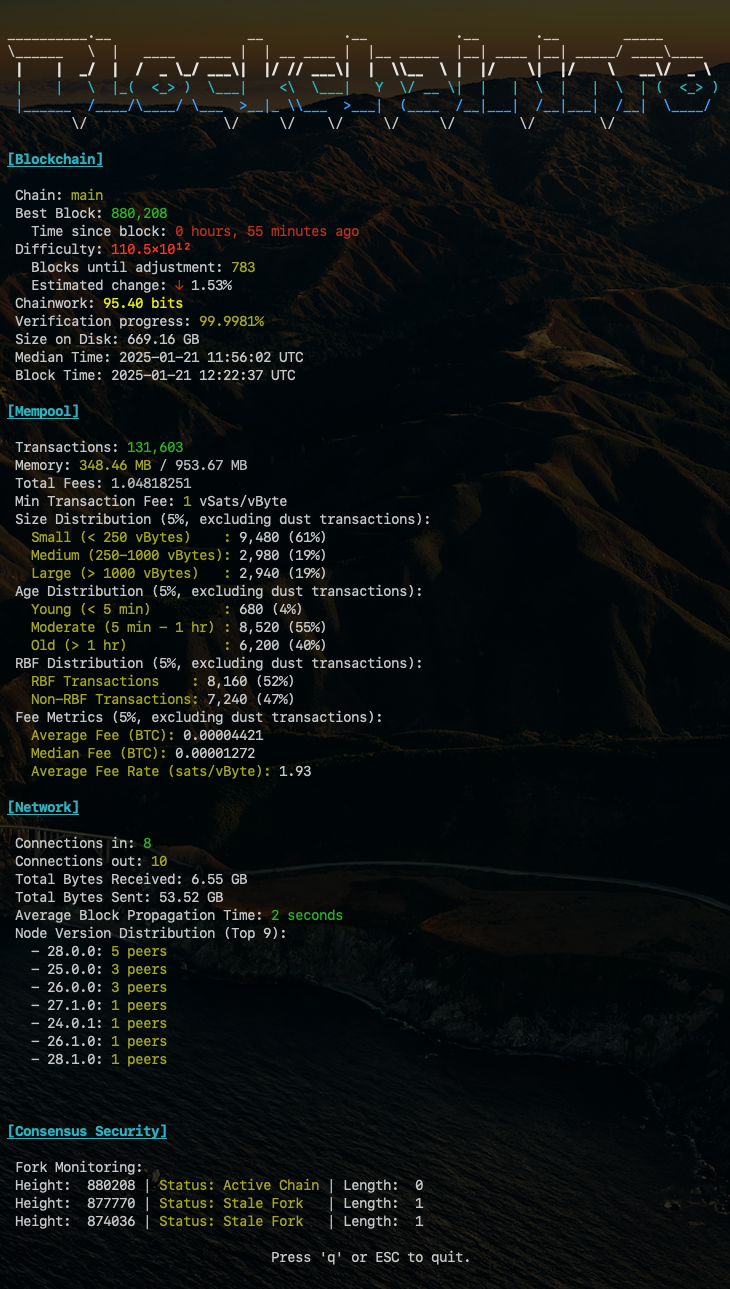
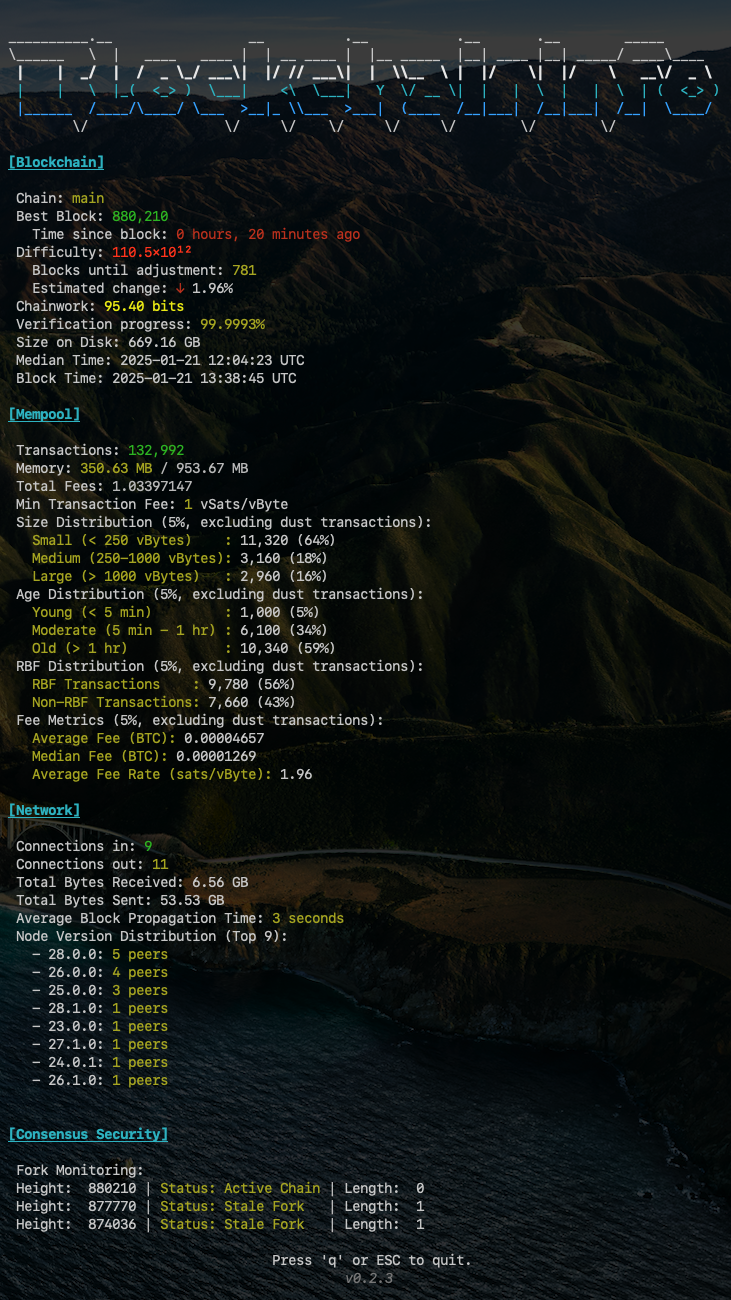
Added version to footer. Updated version to 0.2.3

diff --git a/src/utils.rs b/src/utils.rs
@@ -20,6 +20,8 @@ const TB: u64 = GB * 1024;
 // Constants for estimated difficulty adjustment change.
 pub const DIFFICULTY_ADJUSTMENT_INTERVAL: u64 = 2016;
 pub const BLOCK_TIME_SECONDS: u64 = 600;
+const APP_VERSION: &str = env!("CARGO_PKG_VERSION");
+
 
 
 // Formats a size in bytes into a more readable format (KB, MB, etc.).
@@ -122,14 +124,27 @@ pub fn render_header() -> Paragraph<'static> {
 
     // Create the paragraph widget.
     Paragraph::new(lines)
-        .block(Block::default().title("").borders(Borders::NONE))
+    .block(Block::default().title("").borders(Borders::NONE))
 }
 
 pub fn render_footer<B: Backend>(f: &mut Frame<B>, area: Rect) {
-    let footer = Paragraph::new("Press 'q' or ESC to quit.")
-        .style(Style::default().fg(Color::Gray))
+    // Combine the footer message and app version.
+    let footer_text = vec![
+        Spans::from(Span::styled(
+            "Press 'q' or ESC to quit.",
+            Style::default().fg(Color::Gray),
+        )),
+        Spans::from(Span::styled(
+            format!("v{}", APP_VERSION),
+            Style::default().fg(Color::DarkGray).add_modifier(Modifier::ITALIC),
+        )),
+    ];
+
+    let footer = Paragraph::new(footer_text)
+        .style(Style::default())
         .alignment(Alignment::Center)
         .block(Block::default().borders(Borders::NONE));
+
     f.render_widget(footer, area);
 }
 
